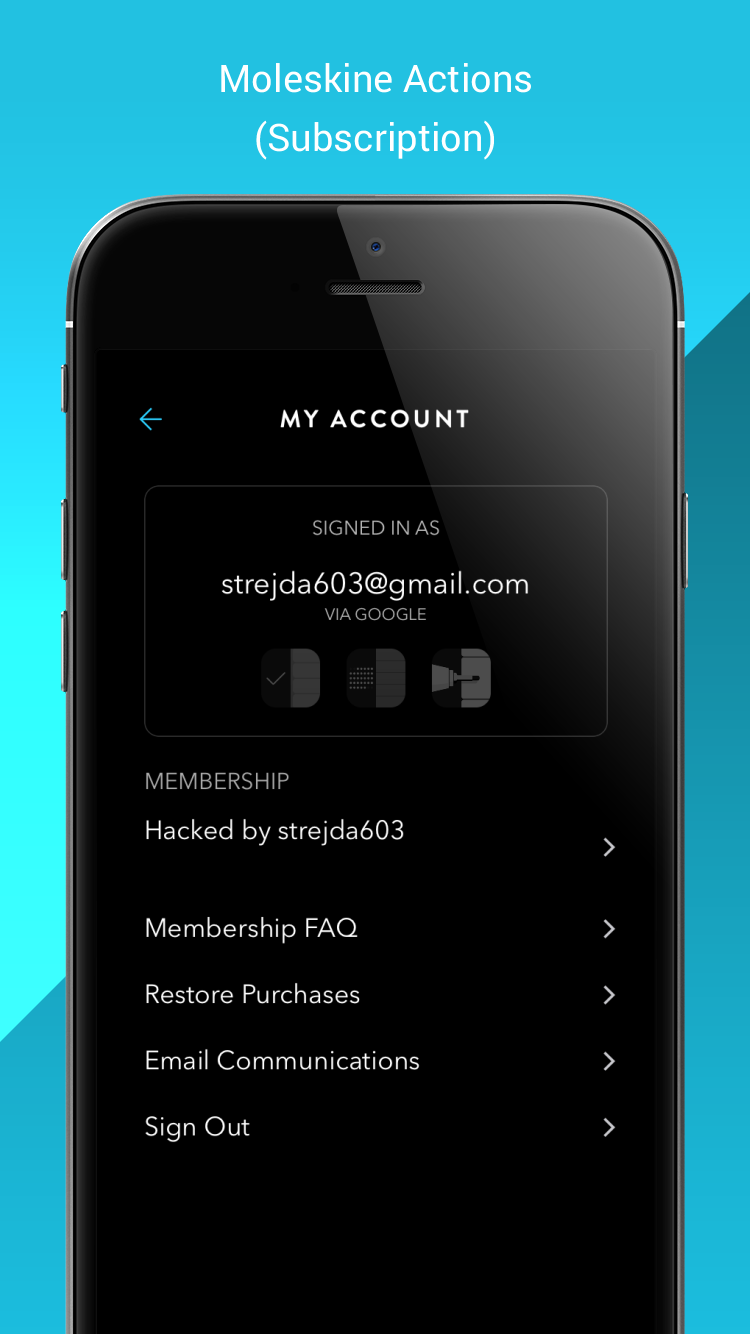
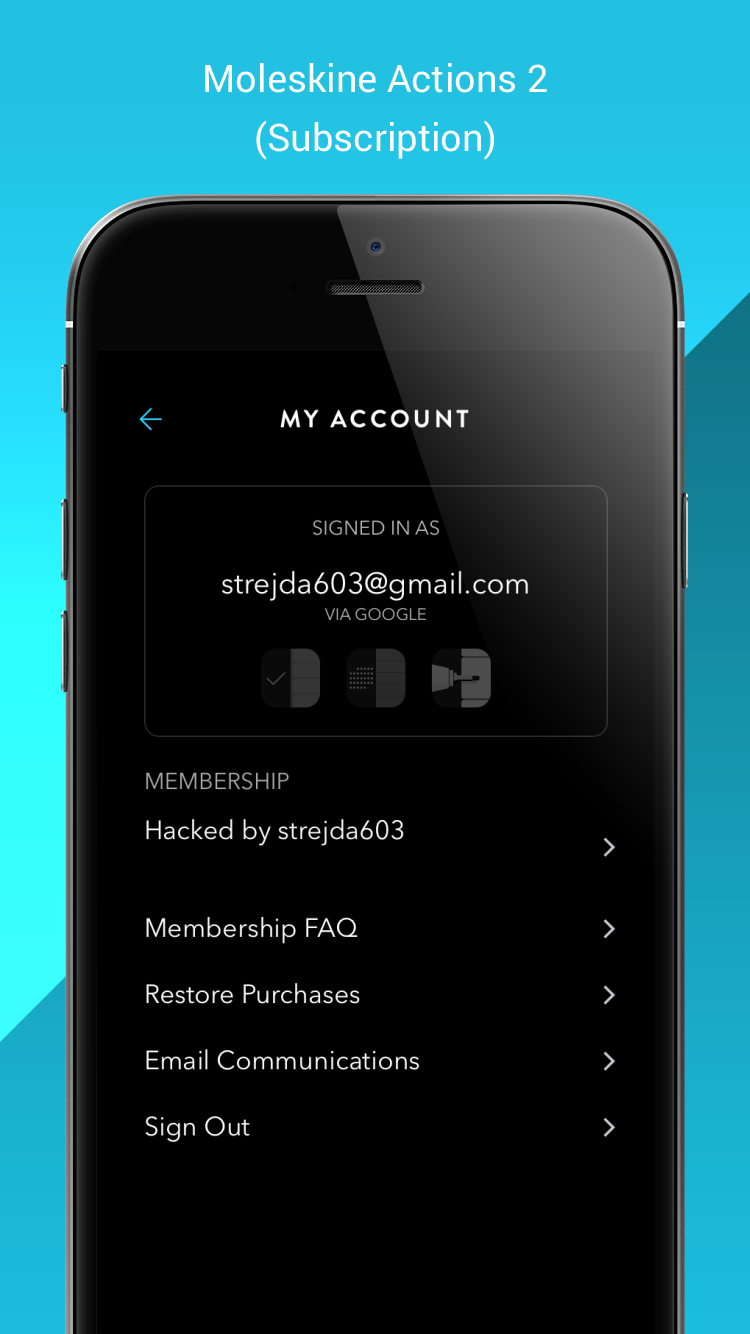
pkg update

Changed region(s): [[0.276, 0.0307, 0.736, 0.0922]]

diff --git a/depictions/com.strejda603.moleskineactions2subscription/index.html b/depictions/com.strejda603.moleskineactions2subscription/index.html
@@ -28,12 +28,12 @@
 <td style="width:58px;text-align:left;vertical-align:middle;padding:5px;"><img class="icon" src="https://is2-ssl.mzstatic.com/image/thumb/Purple113/v4/e1/77/4b/e1774b20-1fb4-9d8e-8497-c86d4266c2a3/source/350x350bb.jpg" width="58" height="58"></td>
 <td style="font-size:20px;text-align:center;vertical-align:middle;padding:5px;">
 <div style="word-wrap:break-word;">
-<strong>Moleskine Actions (Subscription)</strong></td>
+<strong>Moleskine Actions 2 (Subscription)</strong></td>
 </div>
 </tr>
 </table>
 <p>Patches subscription requirement for Moleskine Actions.</p>
-<p><strong>NOTE:</strong> This tweak was tested on iOS 11, 12 and 13, but it may work in lower ones.</p>
+<p><strong>NOTE:</strong> This tweak was tested on iOS 12 and 13, but it may work in lower ones.</p>
 </div>
 </fieldset>
 

diff --git a/depictions/com.strejda603.moleskinetimepage2subscription/index.html b/depictions/com.strejda603.moleskinetimepage2subscription/index.html
@@ -33,7 +33,7 @@
 </tr>
 </table>
 <p>Patches subscription requirement for Moleskine Timepage.</p>
-<p><strong>NOTE:</strong> This tweak was tested on iOS 11, 12 and 13, but it may work in lower ones.</p>
+<p><strong>NOTE:</strong> This tweak was tested on iOS 12 and 13, but it may work in lower ones.</p>
 </div>
 </fieldset>
 

diff --git a/depictions/com.strejda603.moleskinetimepage2subscription/changelog.html b/depictions/com.strejda603.moleskinetimepage2subscription/changelog.html
@@ -18,7 +18,7 @@
 <p>Moleskine Timepage 2 (Subscription) Changelog</p>
 </block>
 
-<label>Version 1.0.0 (17/4/2020)</label>
+<label>Version 1.0.0 (18/4/2020)</label>
 <fieldset>
 <div>
 <p>Initial Release</p>

diff --git a/depictions/com.strejda603.moleskineactions2subscription/changelog.html b/depictions/com.strejda603.moleskineactions2subscription/changelog.html
@@ -18,7 +18,7 @@
 <p>Moleskine Actions 2 (Subscription) Changelog</p>
 </block>
 
-<label>Version 1.0.0 (17/4/2020)</label>
+<label>Version 1.0.0 (18/4/2020)</label>
 <fieldset>
 <div>
 <p>Initial Release</p>
